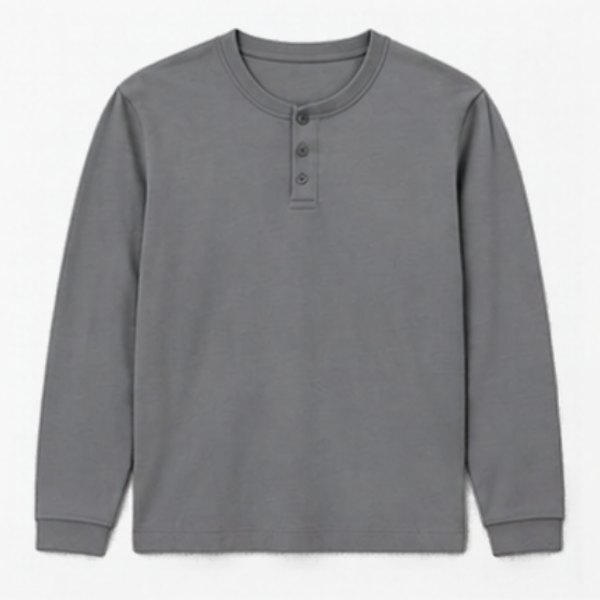
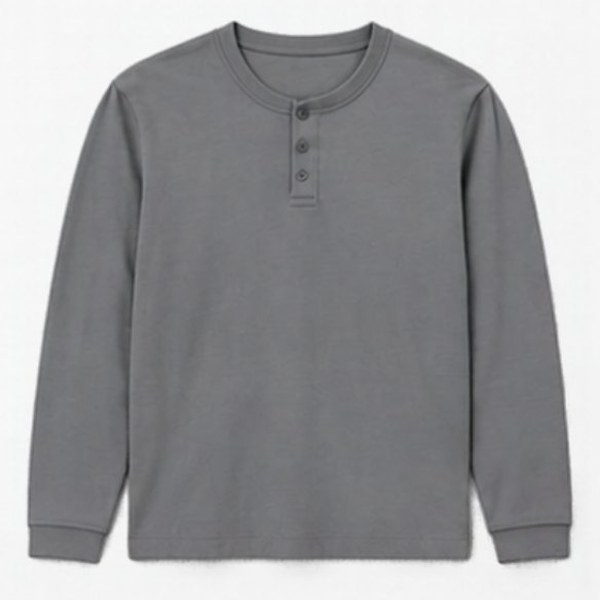
Belts, glasses, ties, gloves, socks, scarf: a real photo for every colour button
- Original photos kept; new Canva photos added for the missing colours
- Formal and casual belt types; sunglasses and glasses frames; curved ties
- Short researched material lists for belts, glasses and ties

diff --git a/js/app.js b/js/app.js
@@ -1033,8 +1033,17 @@ function nearestTone(hexOrTone, list){
   return [...list].sort((a, b) => labDist(lab, toLab(hexRgb(TONES[a].hex))) - labDist(lab, toLab(hexRgb(TONES[b].hex))))[0];
 }
 const materialsFor = (gid, cat) => MATERIALS_BY_GROUP[gid] || MATERIALS_FOR[cat];
+/* Photo colour buttons for a type, without photos that are not made yet */
+const photoOpts = st => (PHOTO_OPTIONS[st] || []).filter(o => !PHOTO_PENDING.has(o[1]));
+const optLabel = (o, gid) => o[2] || toneLabel(gid, o[0]);
+function pickOpt(tone){   // the photo button closest to a colour
+  const opts = photoOpts(add.style); if(!opts.length){ add.opt = null; return; }
+  let i = opts.findIndex(o => o[0] === tone);
+  if(i < 0) i = opts.findIndex(o => o[0] === nearestTone(tone, opts.map(x => x[0])));
+  add.opt = i; add.tone = opts[i][0];
+}
 const nameWord = st => ((STYLES[st] || {}).label || "").split(/[(/]/)[0].trim().toLowerCase();
-function autoName(){ return `${toneLabel(add.group, add.tone)} ${nameWord(add.style)}`.replace(/^Denim blue /, "Blue "); }
+function autoName(){ const o = photoOpts(add.style)[add.opt]; return `${!add.hex && o ? optLabel(o, add.group) : toneLabel(add.group, add.tone)} ${nameWord(add.style)}`.replace(/^Denim blue /, "Blue "); }
 function mySize(cat){
   if(cat === "top") return profile.shirt || "M";
   if(cat === "bottom") return [profile.pantWaist || "W32", profile.pantLength || "L32"].join(" ");
@@ -1054,11 +1063,15 @@ function renderAddChips(){
   $("#a-groups").innerHTML = GROUPS.map(x => radio("data-agroup", x.id, x.id === add.group, `${icon(x.id)} ${esc(x.label)}${ai.group === x.id ? aiMark : ""}`)).join("");
   const types = [...aiTypes, ...g.styles.filter(st => !aiTypes.includes(st))];
   $("#a-types").innerHTML = types.map(st => radio("data-astyle", st, st === add.style, `${esc(STYLES[st].label)}${aiTypes.includes(st) ? aiMark : ""}`)).join("");
-  const pal = paletteFor(g.id), aiTone = ai.tone ? (pal.includes(ai.tone) ? ai.tone : nearestTone(ai.tone, pal)) : null;
-  $("#a-tones").innerHTML = pal.map(k => radio("data-atone", k, !add.hex && k === add.tone, `${k === aiTone ? aiMark : ""}`,
-    ` style="--sw:${TONES[k].hex}" aria-label="${toneLabel(g.id, k)}" title="${toneLabel(g.id, k)}"`)).join("")
+  const opts = photoOpts(add.style), pal = paletteFor(g.id);
+  const aiTone = ai.tone ? (opts.length ? nearestTone(ai.tone, opts.map(o => o[0])) : pal.includes(ai.tone) ? ai.tone : nearestTone(ai.tone, pal)) : null;
+  $("#a-tones").innerHTML = (opts.length
+    ? opts.map((o, i) => radio("data-aopt", i, !add.hex && add.opt === i, `${o[0] === aiTone && opts.findIndex(x => x[0] === aiTone) === i ? aiMark : ""}`,
+        ` style="--sw:${TONES[o[0]].hex}" class="${/stripe/i.test(o[2] || "") ? "sw-stripes" : ""}" aria-label="${optLabel(o, g.id)}" title="${optLabel(o, g.id)}"`)).join("")
+    : pal.map(k => radio("data-atone", k, !add.hex && k === add.tone, `${k === aiTone ? aiMark : ""}`,
+        ` style="--sw:${TONES[k].hex}" aria-label="${toneLabel(g.id, k)}" title="${toneLabel(g.id, k)}"`)).join(""))
     + `<label class="sw-pick${add.hex ? " on" : ""}" title="Pick any colour" style="${add.hex ? "--sw:" + add.hex : ""}"><input type="color" id="a-pick" value="${add.hex || TONES[add.tone].hex}" aria-label="Pick any colour"></label>`;
-  $("#a-tone-name").textContent = add.hex ? `Custom (${add.hex.toUpperCase()})` : toneLabel(g.id, add.tone);
+  $("#a-tone-name").textContent = add.hex ? `Custom (${add.hex.toUpperCase()})` : (opts.length && add.opt != null && opts[add.opt]) ? optLabel(opts[add.opt], g.id) : toneLabel(g.id, add.tone);
   const short = MATERIALS_BY_GROUP[g.id], aiMat = ai.material;
   let mats = short ? [...short] : add.allMats ? MATERIALS : MATERIALS_FOR[g.cat].slice(0, 8);
   if(!short && aiMat && !mats.includes(aiMat)) mats = [aiMat, ...mats];
@@ -1082,7 +1095,10 @@ function renderPicChoice(){
 /* New clean picture whenever type or colour changes */
 let cleanTicket = 0;
 function refreshClean(){
-  const t = ++cleanTicket; add.clean = null; renderPicChoice();
+  const t = ++cleanTicket; add.clean = null;
+  const o = !add.hex && photoOpts(add.style)[add.opt];
+  if(o){ add.clean = o[1]; renderPicChoice(); return; }
+  renderPicChoice();
   cleanPicture(add.style, add.tone, add.hex).then(url => {
     if(t !== cleanTicket) return;
     add.clean = url; renderPicChoice();
@@ -1105,13 +1121,15 @@ function setStyle(st){
     if(!add.touched.size) add.size = mySize(g.cat);
   }
   add.style = st;
+  if(photoOpts(st).length && !add.hex) pickOpt(add.tone); else add.opt = null;
 }
 $("#add-dialog").addEventListener("click", e => {
-  const b = e.target.closest("[data-agroup],[data-astyle],[data-atone],[data-amat],[data-asize],[data-amore],[data-pic]"); if(!b) return;
+  const b = e.target.closest("[data-agroup],[data-astyle],[data-atone],[data-aopt],[data-amat],[data-asize],[data-amore],[data-pic]"); if(!b) return;
   const d = b.dataset;
   if(d.agroup){ const g = GROUPS.find(x => x.id === d.agroup); add.touched.style = true; setStyle(g.styles.includes(add.style) ? add.style : g.styles[0]); refreshClean(); }
   else if(d.astyle){ add.touched.style = true; setStyle(d.astyle); refreshClean(); }
   else if(d.atone){ add.touched.tone = true; add.tone = d.atone; add.hex = null; refreshClean(); }
+  else if(d.aopt !== undefined){ const o = photoOpts(add.style)[+d.aopt]; if(o){ add.touched.tone = true; add.opt = +d.aopt; add.tone = o[0]; add.hex = null; refreshClean(); } }
   else if(d.amat){ add.touched.material = true; add.material = d.amat; }
   else if(d.asize){ add.touched.size = true; add.size = d.asize; }
   else if(d.amore !== undefined){ add.allMats = true; }
@@ -1126,7 +1144,7 @@ $("#add-dialog").addEventListener("input", e => {
   const hex = e.target.value;
   add.hex = hex; add.tone = nearestTone(hex, Object.keys(TONES)); add.touched.tone = true;
   const lab = e.target.closest(".sw-pick"); lab.classList.add("on"); lab.style.setProperty("--sw", hex);
-  $$("#a-tones [data-atone]").forEach(b => b.setAttribute("aria-checked", "false"));
+  $$("#a-tones [data-atone],#a-tones [data-aopt]").forEach(b => b.setAttribute("aria-checked", "false"));
   $("#a-tone-name").textContent = `Custom (${hex.toUpperCase()})`;
   if(!add.nameTouched) $("#a-name").value = autoName();
   clearTimeout(pickT); pickT = setTimeout(refreshClean, 120);
@@ -1134,6 +1152,7 @@ $("#add-dialog").addEventListener("input", e => {
 
 $("#open-add").addEventListener("click", () => {
   resetAdd(GROUPS.find(g => g.id === wardCat) ? wardCat : "shirts");
+  add.opt = null; if(photoOpts(add.style).length) pickOpt(add.tone);
   $("#add-form").reset(); $("#add-error").textContent = ""; $("#a-photo").value = "";
   scanStatus(""); renderAddChips(); refreshClean();
   $("#add-dialog").showModal();
@@ -1162,11 +1181,11 @@ async function startScan(canvas){
   const id = ++add.scanId;
   let pix = [];
   try { pix = photoTones(canvas); } catch(err){}
-  if(pix.length && !add.touched.tone){ const pal = paletteFor(add.group); add.tone = pal.includes(pix[0][0]) ? pix[0][0] : nearestTone(pix[0][0], pal); add.hex = null; add.ai = {...(add.ai || {}), tone:pix[0][0]}; }
+  if(pix.length && !add.touched.tone){ const pal = paletteFor(add.group); add.tone = pal.includes(pix[0][0]) ? pix[0][0] : nearestTone(pix[0][0], pal); add.hex = null; pickOpt(pix[0][0]); add.ai = {...(add.ai || {}), tone:pix[0][0]}; }
   renderAddChips(); refreshClean(); renderPicChoice();
   scanStatus("Reading your photo…");
   try {
-    const scan = await import("./scan.js?v=21");
+    const scan = await import("./scan.js?v=22");
     const res = await scan.analysePhoto(canvas, f => { if(id === add.scanId) scanStatus("Getting the photo analyser ready (first time only)…", f); });
     if(id !== add.scanId) return;
     /* Colour: the analyser and the pixel colour together */
@@ -1180,7 +1199,7 @@ async function startScan(canvas){
     add.ai = {types, tone:bestTone, group:group.id, material:(mats[0] || res.materials[0])[0]};
     if(!add.touched.style) setStyle(bestStyle);
     const pal = paletteFor(add.group);
-    if(!add.touched.tone){ add.tone = pal.includes(bestTone) ? bestTone : nearestTone(bestTone, pal); add.hex = null; }
+    if(!add.touched.tone){ add.tone = pal.includes(bestTone) ? bestTone : nearestTone(bestTone, pal); add.hex = null; pickOpt(bestTone); }
     const ml = materialsFor(add.group, cat);
     if(!add.touched.material) add.material = ml.includes(add.ai.material) ? add.ai.material : (res.materials.find(([m]) => ml.includes(m)) || [ml[0]])[0];
     renderAddChips(); refreshClean();
@@ -1200,7 +1219,7 @@ async function makeCutout(){
   const t = ++cutTicket, canvas = addCanvas;
   scanStatus("Removing the background…");
   try {
-    const scan = await import("./scan.js?v=21");
+    const scan = await import("./scan.js?v=22");
     const cut = await scan.cutOut(canvas, f => { if(t === cutTicket) scanStatus("Getting the background remover ready (first time only)…", f); });
     if(t !== cutTicket || canvas !== addCanvas) return;
     add.cut = studioFromCutout(cut);

diff --git a/js/data.js b/js/data.js
@@ -21,7 +21,10 @@ const TONES = {
   orange:    {name:"Orange",     hex:"#d9762b"},
   purple:    {name:"Purple",     hex:"#5e3f86"},
   tan:       {name:"Tan",        hex:"#a8774a", neutral:true},
-  camel:     {name:"Camel",      hex:"#b88a5a", neutral:true}
+  camel:     {name:"Camel",      hex:"#b88a5a", neutral:true},
+  walnut:    {name:"Walnut",     hex:"#7b4f2c", neutral:true},
+  tortoise:  {name:"Tortoiseshell", hex:"#6e4a2a", neutral:true},
+  clear:     {name:"Clear",      hex:"#e6ecef", neutral:true, light:true}
 };
 /* Colour buttons per category. Shirts and pants show the full list; others show their top colours + a colour picker. */
 const PALETTE_DEFAULT = ["white","black","grey","charcoal","navy","beige","cream","blue","lightblue","olive","brown","red","burgundy","green","pink","yellow","orange","purple","silver","gold"];
@@ -30,7 +33,24 @@ const COLOURS_FOR = {
   socks:   ["black","charcoal","grey","navy","white"],
   scarves: ["grey","navy","black","camel","burgundy"]
 };
-const COLOUR_LABEL = {gloves:{brown:"Dark brown"}};
+const COLOUR_LABEL = {gloves:{brown:"Dark brown"}, belts:{brown:"Dark brown"}};
+/* Colour buttons that each show a real photo: original photos first, then the new ones made in Canva.
+   Each item: [tone, photo, label (optional, when two buttons share a colour)] */
+const I_ = n => "img/items/" + n + ".jpg";
+const T_ = n => "img/items/tpl-" + n + ".jpg";
+const PHOTO_OPTIONS = {
+  gloves:     [["black", I_("black-leather-gloves")], ["brown", I_("brown-leather-gloves"), "Brown"], ["grey", I_("grey-knit-gloves")], ["tan", T_("gloves-tan")], ["navy", T_("gloves-navy")]],
+  socks:      [["white", I_("white-sports-socks")], ["black", I_("black-dress-socks")], ["navy", I_("navy-striped-socks"), "Navy stripes"], ["navy", T_("socks-navy")], ["charcoal", T_("socks-charcoal")], ["grey", T_("socks-grey")]],
+  scarf:      [["grey", I_("grey-wool-scarf")], ["navy", I_("navy-scarf")], ["camel", I_("camel-scarf")], ["burgundy", I_("s22-burgundy-wool-scarf")], ["black", T_("scarf-black")]],
+  belt:       [["black", I_("black-leather-belt")], ["brown", I_("brown-leather-belt"), "Dark brown"], ["walnut", T_("belt-walnut")], ["tan", T_("belt-tan")], ["navy", T_("belt-navy")]],
+  beltcasual: [["black", T_("beltc-black")], ["brown", T_("beltc-brown"), "Dark brown"], ["walnut", T_("beltc-walnut")], ["tan", T_("beltc-tan")], ["navy", T_("beltc-navy")]],
+  sunglasses: [["black", I_("black-sunglasses")], ["gold", I_("brown-aviators"), "Gold"], ["tortoise", T_("sun-tortoise")], ["silver", T_("sun-silver")], ["brown", T_("sun-brown")]],
+  glasses:    [["tortoise", I_("s16-tortoiseshell-glasses")], ["gold", I_("round-glasses")], ["clear", T_("glasses-clear")], ["silver", T_("glasses-silver"), "Silver half-frame"], ["brown", T_("glasses-brown")]],
+  tie:        [["navy", T_("tie-navy")], ["burgundy", T_("tie-burgundy")], ["black", T_("tie-black")], ["grey", T_("tie-grey")], ["lightblue", T_("tie-lightblue")]],
+  bowtie:     [["black", I_("black-bow-tie")], ["navy", I_("s21-navy-velvet-bow-tie")], ["burgundy", T_("bowtie-burgundy")], ["grey", T_("bowtie-grey")], ["lightblue", T_("bowtie-lightblue")]]
+};
+/* Photos of a new set that are not made yet are left out until they exist */
+const PHOTO_PENDING = new Set([]);
 
 /* formal: 0 = casual, 1 = smart casual, 2 = formal */
 const STYLES = {
@@ -51,7 +71,7 @@ const STYLES = {
   chelsea:{label:"Chelsea boots", formal:1, warm:true}, loafers:{label:"Loafers", formal:2}, oxfords:{label:"Dress shoes", formal:2},
   sandals:{label:"Sandals", formal:0}, slides:{label:"Slides", formal:0},
   /* accessories */
-  watch:{label:"Watch", formal:1}, belt:{label:"Belt", formal:1}, cap:{label:"Cap", formal:0},
+  watch:{label:"Watch", formal:1}, belt:{label:"Formal belt", formal:1}, beltcasual:{label:"Casual belt", formal:0}, cap:{label:"Cap", formal:0},
   beanie:{label:"Beanie", formal:0, warm:true}, hat:{label:"Bucket hat", formal:0},
   sunglasses:{label:"Sunglasses", formal:0}, glasses:{label:"Glasses", formal:1},
   chain:{label:"Chain", formal:0}, bracelet:{label:"Bracelet", formal:0}, ring:{label:"Ring", formal:1},
@@ -66,7 +86,7 @@ const GROUPS = [
   {id:"shoes",     label:"Shoes",     cat:"shoes",  styles:["sneakers","runners","boots","chelsea","loafers","oxfords","sandals","slides"]},
   {id:"scarves",   label:"Scarves",   cat:"acc",    styles:["scarf"]},
   {id:"watches",   label:"Watches",   cat:"acc",    styles:["watch"]},
-  {id:"belts",     label:"Belts",     cat:"acc",    styles:["belt"]},
+  {id:"belts",     label:"Belts",     cat:"acc",    styles:["belt","beltcasual"]},
   {id:"caps",      label:"Caps & Hats", cat:"acc",  styles:["cap","beanie","hat"]},
   {id:"glasses",   label:"Glasses",   cat:"acc",    styles:["sunglasses","glasses"]},
   {id:"jewellery", label:"Jewellery", cat:"acc",    styles:["chain","bracelet","ring"]},
@@ -77,7 +97,7 @@ const GROUPS = [
 function groupOf(item){
   return GROUPS.find(g => g.styles.includes(item.style)) || GROUPS.find(g => g.cat === item.cat) || GROUPS[0];
 }
-const MATERIALS = ["Wool knit","Merino wool","Bamboo","Nylon blend","Acrylic","Cotton","Denim","Wool","Linen","Polyester","Leather","Suede","Canvas","Silk","Satin","Cashmere","Corduroy","Fleece","Nylon","Velvet","Tweed","Flannel","Jersey","Knit","Rubber","Mesh","Down","Faux leather","Stainless steel","Sterling silver","Gold-plated","Metal","Acetate","Plastic"];
+const MATERIALS = ["Full-grain leather","Braided leather","Elastic","TR90","Wool knit","Merino wool","Bamboo","Nylon blend","Acrylic","Cotton","Denim","Wool","Linen","Polyester","Leather","Suede","Canvas","Silk","Satin","Cashmere","Corduroy","Fleece","Nylon","Velvet","Tweed","Flannel","Jersey","Knit","Rubber","Mesh","Down","Faux leather","Stainless steel","Sterling silver","Gold-plated","Metal","Acetate","Plastic"];
 /* Materials shown first for each slot when you add a piece */
 const MATERIALS_FOR = {
   top:["Cotton","Linen","Wool","Knit","Fleece","Jersey","Flannel","Denim","Polyester","Leather","Nylon","Down","Cashmere","Silk","Corduroy","Velvet","Tweed"],
@@ -87,6 +107,9 @@ const MATERIALS_FOR = {
 };
 /* Categories with a short, researched material list (only these are shown) */
 const MATERIALS_BY_GROUP = {
+  belts:   ["Full-grain leather","Suede","Braided leather","Canvas","Elastic"],
+  glasses: ["Acetate","Metal","Titanium","TR90","Plastic"],
+  ties:    ["Silk","Wool","Cotton","Linen","Polyester"],
   gloves:  ["Leather","Suede","Wool knit","Cashmere","Fleece"],
   socks:   ["Cotton","Merino wool","Bamboo","Nylon blend","Polyester"],
   scarves: ["Wool","Cashmere","Acrylic","Cotton","Silk"]

diff --git a/js/studio.js b/js/studio.js
@@ -5,9 +5,8 @@
 /* Extra template photos, one per clothing type that has no sample product (made in Canva). */
 const TEMPLATE_EXTRA = ["henley","tank","sweater","cardigan","turtleneck","ziphoodie","sweatshirt","denimjacket","leatherjacket"]
   .map(st => ({style:st, tone:{denimjacket:"blue", leatherjacket:"charcoal"}[st] || "grey", img:"img/items/tpl-" + st + ".jpg"}))
-  /* Real photos for each colour button */
-  .concat([["gloves",["black","brown","tan","grey","navy"]], ["socks",["black","charcoal","grey","navy","white"]], ["scarf",["grey","navy","black","camel","burgundy"]]]
-    .flatMap(([st, tones]) => tones.map(t => ({style:st, tone:t, img:"img/items/tpl-" + st + "-" + t + ".jpg"}))));
+  /* Real photos behind the colour buttons */
+  .concat(Object.entries(PHOTO_OPTIONS).flatMap(([st, list]) => list.filter(o => !PHOTO_PENDING.has(o[1])).map(([tone, img]) => ({style:st, tone, img}))));
 /* Best template to recolour for each type (mid tones keep the folds visible) */
 const TEMPLATE_BASE = {tee:"grey-tee", shirt:"navy-shirt", hoodie:"red-hoodie", jeans:"blue-jeans", trousers:"grey-trousers",
   chinos:"beige-chinos", sneakers:"black-sneakers", boots:"tan-suede-boots", loafers:"brown-loafers", cap:"beige-cap", scarf:"grey-wool-scarf",
@@ -16,7 +15,7 @@ const TEMPLATE_BASE = {tee:"grey-tee", shirt:"navy-shirt", hoodie:"red-hoodie", 
 const TEMPLATE_SIMILAR = {longsleeve:"tee", tank:"tee", henley:"tee", flannel:"shirt", denimshirt:"shirt", sweater:"hoodie", sweatshirt:"hoodie",
   cardigan:"jacket", turtleneck:"hoodie", ziphoodie:"hoodie", denimjacket:"jacket", leatherjacket:"bomber", puffer:"bomber", gilet:"jacket",
   blazer:"jacket", coat:"jacket", joggers:"chinos", cargo:"chinos", runners:"sneakers", chelsea:"boots", oxfords:"loafers", sandals:"loafers",
-  slides:"loafers", beanie:"cap", hat:"cap"};
+  slides:"loafers", beanie:"cap", hat:"cap", beltcasual:"belt"};
 /* Metal and glass pieces look wrong when recoloured: use the closest real photo instead */
 const NO_RECOLOUR = ["watch","sunglasses","glasses","chain","bracelet","ring"];
 const STUDIO_SIZE = 480;

diff --git a/index.html b/index.html
@@ -11,7 +11,7 @@
 <link rel="preconnect" href="https://fonts.googleapis.com">
 <link rel="preconnect" href="https://fonts.gstatic.com" crossorigin>
 <link href="https://fonts.googleapis.com/css2?family=Plus+Jakarta+Sans:wght@400;500;600;700;800&display=swap" rel="stylesheet">
-<link rel="stylesheet" href="css/style.css?v=21">
+<link rel="stylesheet" href="css/style.css?v=22">
 </head>
 <body>
 
@@ -541,8 +541,8 @@
 
 <div class="toast" id="toast" role="status" aria-live="polite"></div>
 
-<script src="js/data.js?v=21"></script>
-<script src="js/studio.js?v=21"></script>
-<script src="js/app.js?v=21"></script>
+<script src="js/data.js?v=22"></script>
+<script src="js/studio.js?v=22"></script>
+<script src="js/app.js?v=22"></script>
 </body>
 </html>

diff --git a/css/style.css b/css/style.css
@@ -939,3 +939,5 @@ h1{margin:2px 0 2px}
 .sw-pick.on{background:var(--sw);box-shadow:0 0 0 2.5px #fff,0 0 0 4.5px var(--brand)}
 .sw-pick.on::after{display:none}
 .sw-pick input{position:absolute;inset:0;opacity:0;width:100%;height:100%;cursor:pointer;border:0;padding:0}
+
+.opt-swatches button.sw-stripes{background:repeating-linear-gradient(0deg,var(--sw) 0 5px,#fff 5px 7px)}
